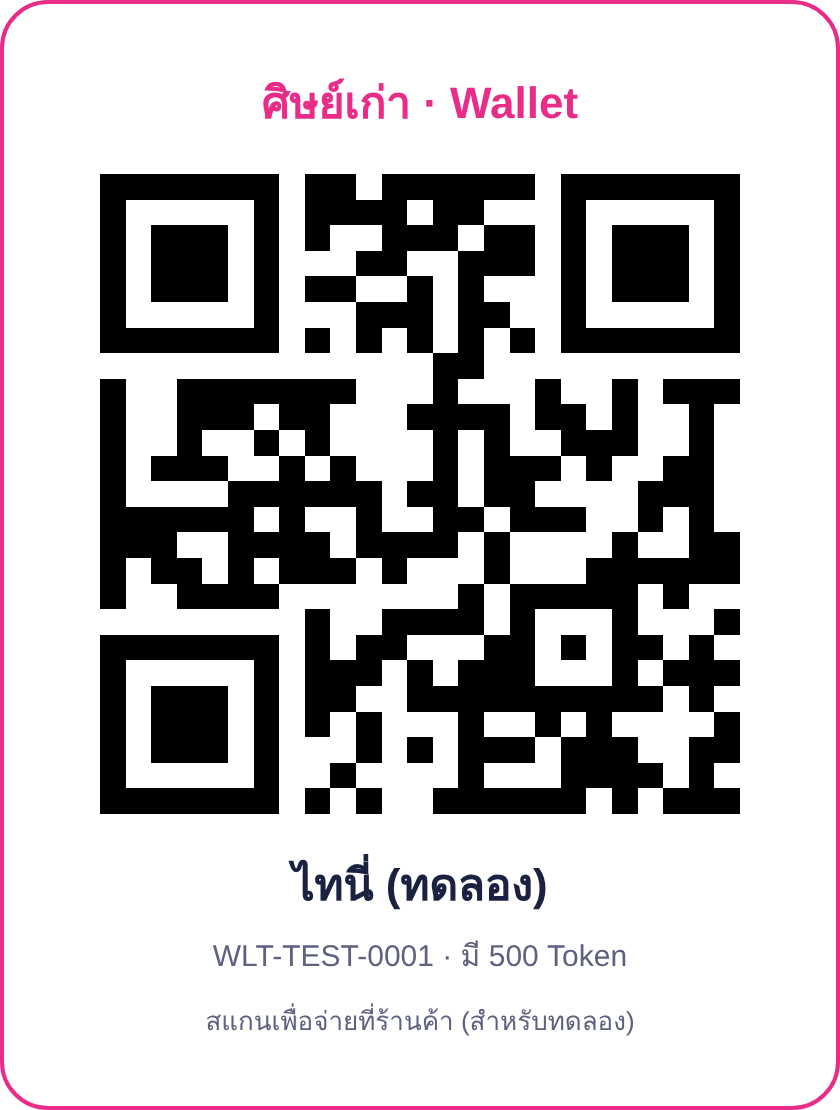
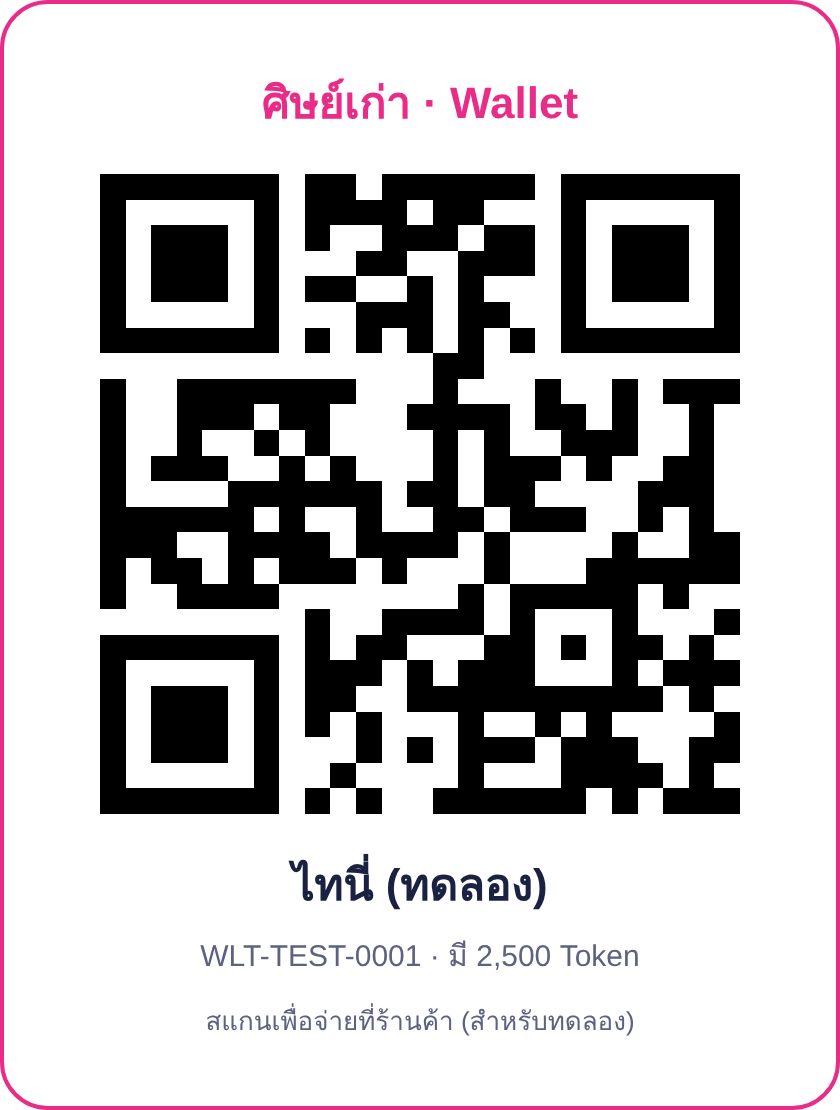
Demo wallet: 2,500 Token
Claude-Session: https://claude.ai/code/session_01RuAvNDQ3rtNZagRZKDKQmY

Changed region(s): [[0.2476, 0.827, 0.7738, 0.8883]]

diff --git a/src/lib/db.ts b/src/lib/db.ts
@@ -236,7 +236,7 @@ export function readDb(): Db {
   }
   // กระเป๋าทดลองสำหรับสาธิตการสแกนจ่ายหน้าร้าน (QR: public/demo-qr/wallet-WLT-TEST-0001.png) — เติมให้อัตโนมัติถ้ายังไม่มี
   if (!db.wallets.some((w) => w.id === "WLT-TEST-0001")) {
-    db.wallets.push({ id: "WLT-TEST-0001", owner: "ไทนี่ (ทดลอง)", balance: 500, status: "ใช้งานได้" });
+    db.wallets.push({ id: "WLT-TEST-0001", owner: "ไทนี่ (ทดลอง)", balance: 2500, status: "ใช้งานได้" });
   }
   // an event past its end time closes itself the first time anyone opens a page afterwards
   const due = db.events.find((e) => e.status === "open" && e.endsAt && Date.parse(e.endsAt) <= Date.now());
